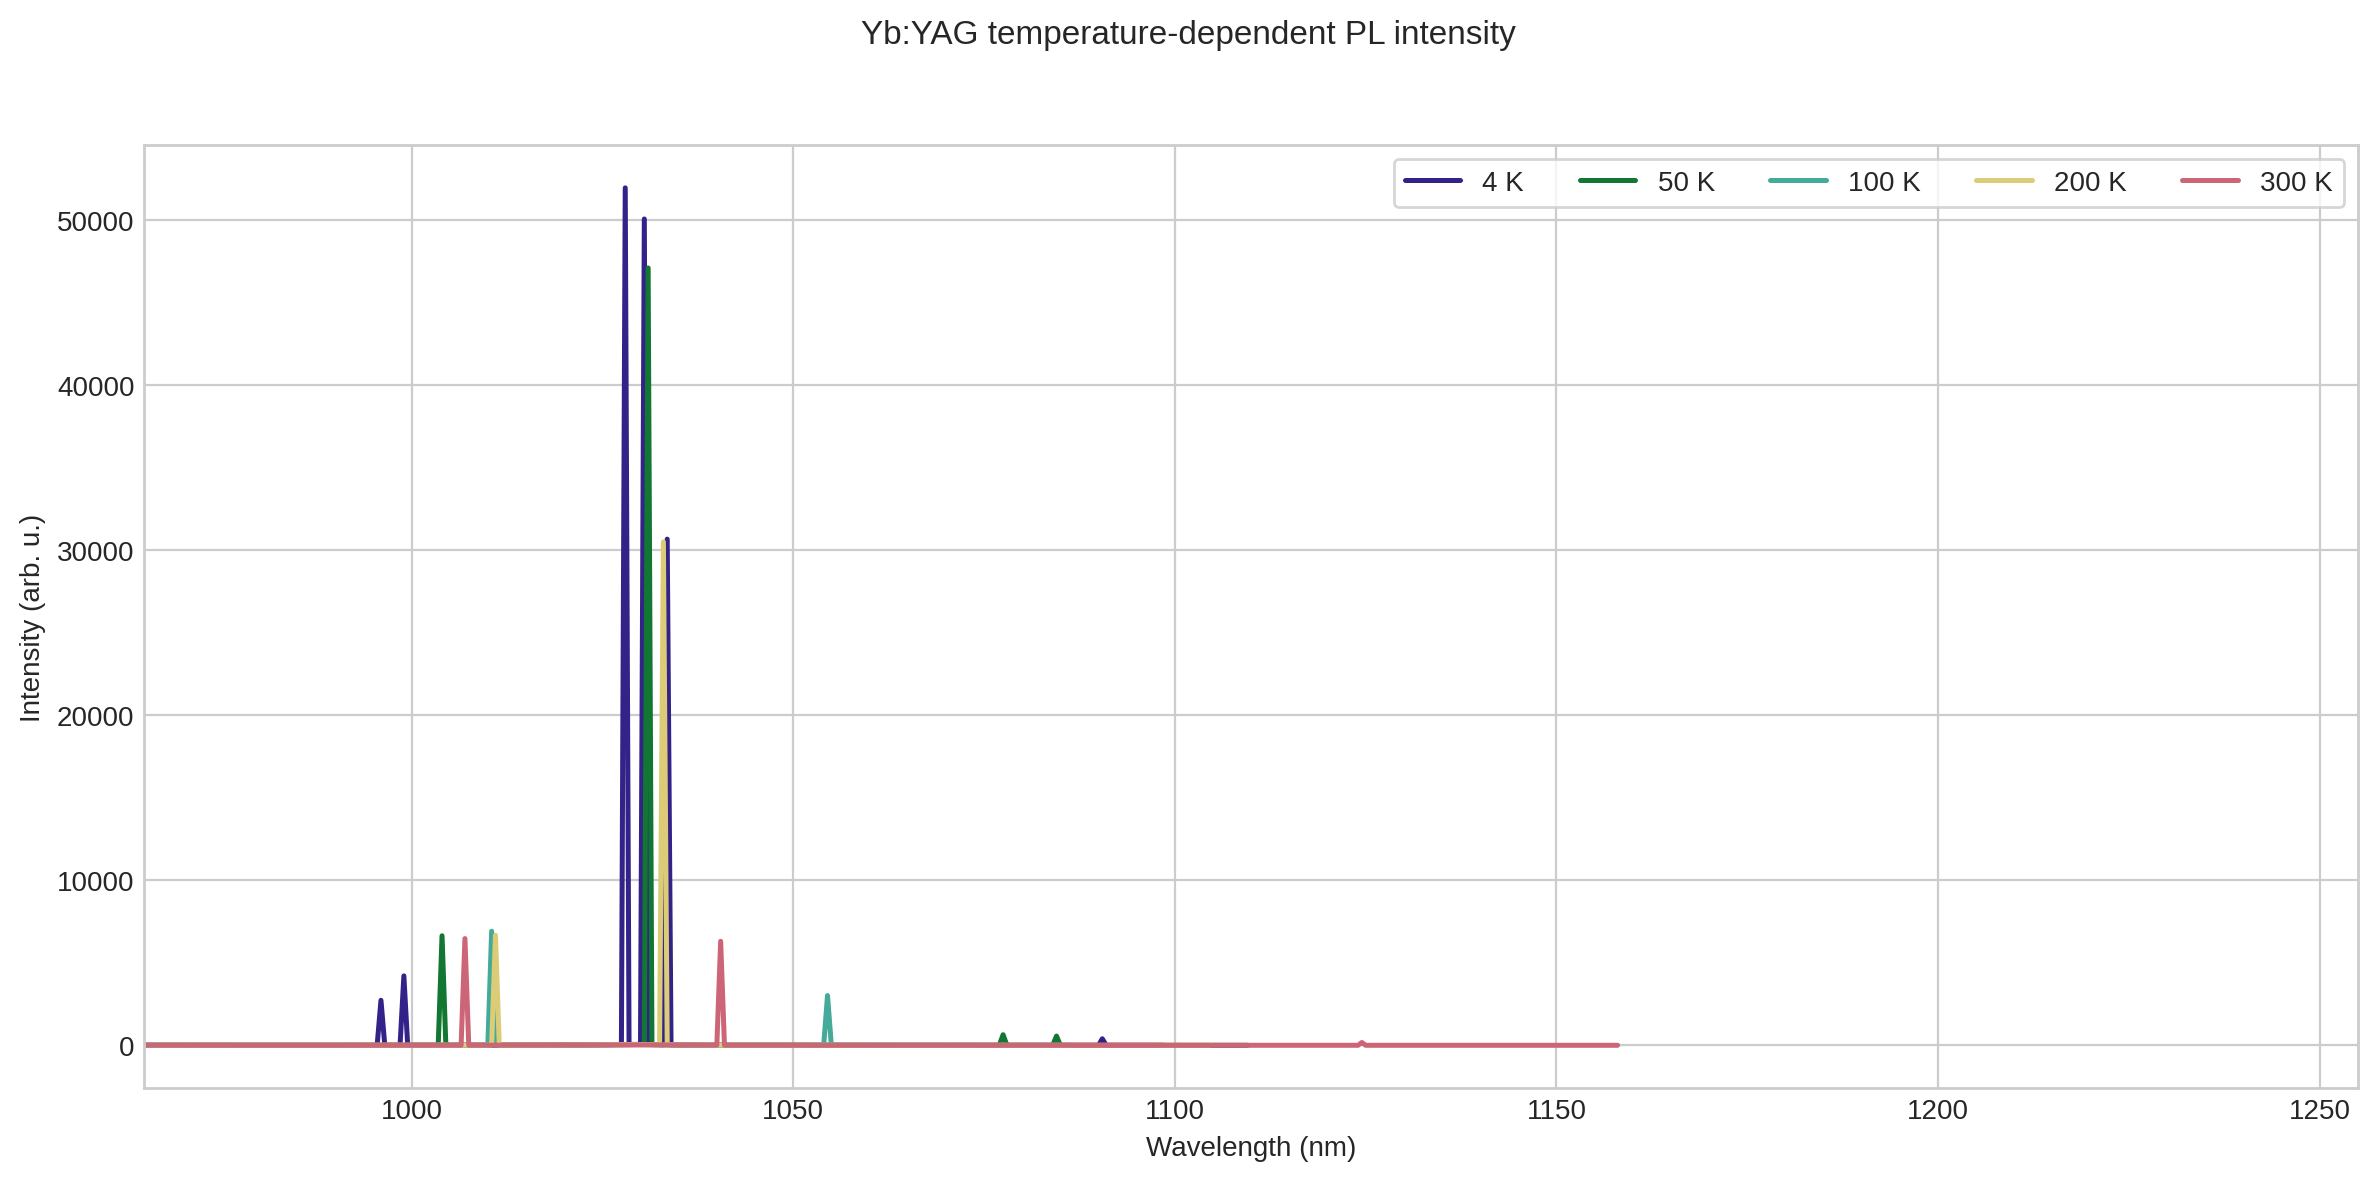
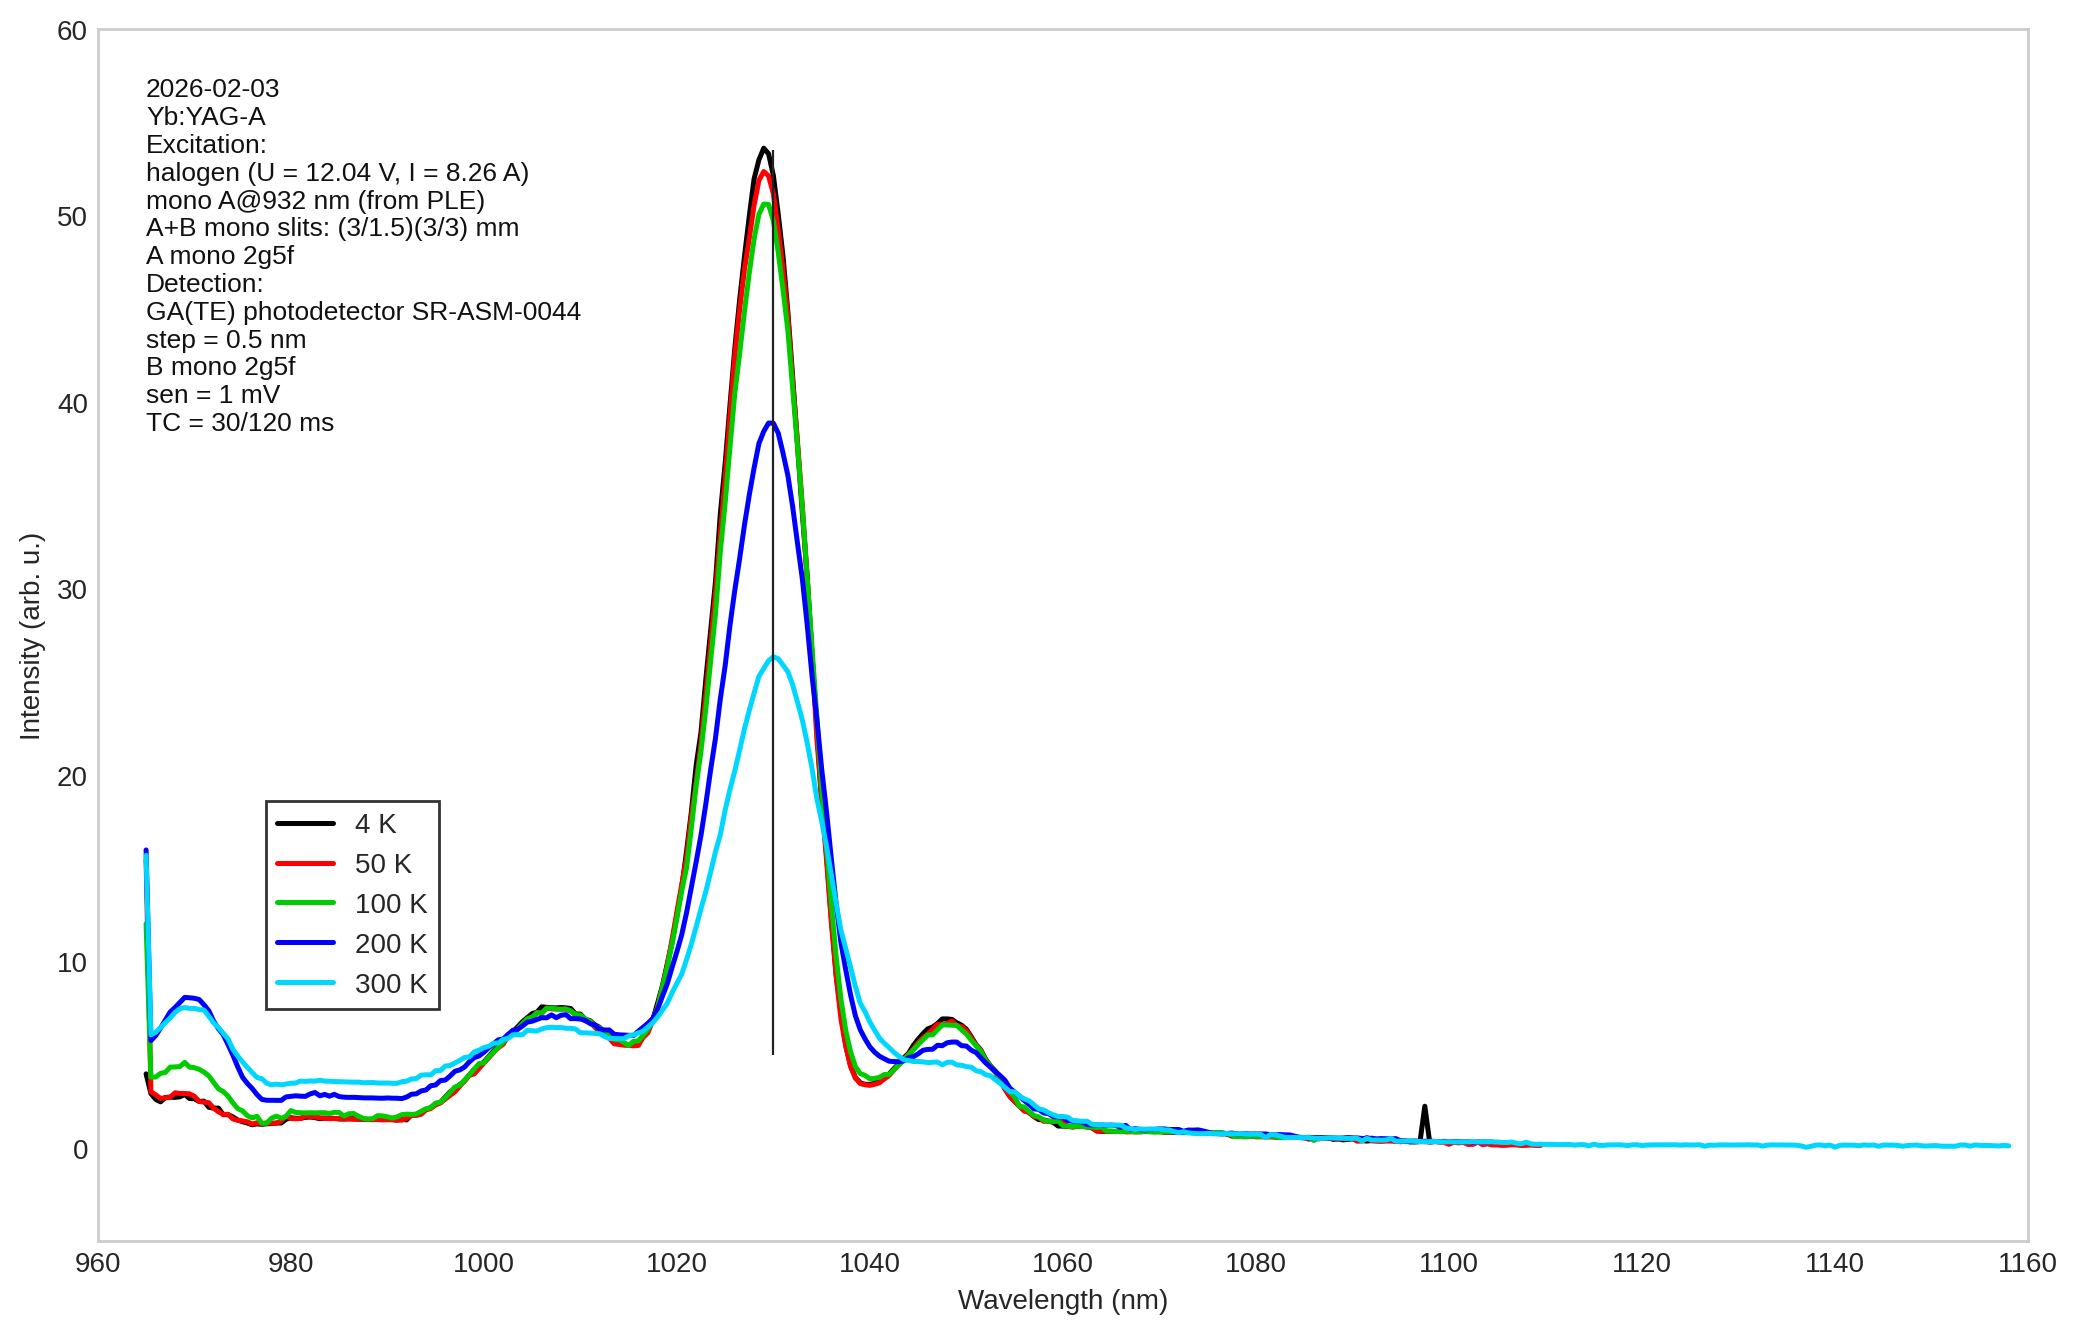
Match temperature PL plot style

diff --git a/scripts/plot_pl_spectra.py b/scripts/plot_pl_spectra.py
@@ -43,11 +43,11 @@ COLORS = {
 }
 
 TEMP_COLORS = {
-    "4 K": "#332288",
-    "50 K": "#117733",
-    "100 K": "#44AA99",
-    "200 K": "#DDCC77",
-    "300 K": "#CC6677",
+    "4 K": "#000000",
+    "50 K": "#FF0000",
+    "100 K": "#00CC00",
+    "200 K": "#0000FF",
+    "300 K": "#00D7FF",
 }
 
 
@@ -92,6 +92,11 @@ def load_temperature_pl(path):
                 continue
             if not np.all(np.isfinite((wavelength, response, raw, intensity))):
                 continue
+
+            # A few Origin CSV cells lost their decimal separator on export.
+            while intensity > 100:
+                intensity /= 1000
+
             rows.append((wavelength, response, raw, intensity))
 
     values = np.asarray(rows)
@@ -219,7 +224,7 @@ def plot_pl_panels(pl_spectra):
 
 
 def plot_temperature_pl(temp_spectra):
-    figure, axis = plt.subplots(figsize=(12, 6))
+    figure, axis = plt.subplots(figsize=(10.5, 6.8))
 
     for label, values in temp_spectra.items():
         wavelength = values[:, 0]
@@ -234,15 +239,53 @@ def plot_temperature_pl(temp_spectra):
             label=label,
         )
 
+    annotation = "\n".join(
+        [
+            "2026-02-03",
+            "Yb:YAG-A",
+            "Excitation:",
+            "halogen (U = 12.04 V, I = 8.26 A)",
+            "mono A@932 nm (from PLE)",
+            "A+B mono slits: (3/1.5)(3/3) mm",
+            "A mono 2g5f",
+            "Detection:",
+            "GA(TE) photodetector SR-ASM-0044",
+            "step = 0.5 nm",
+            "B mono 2g5f",
+            "sen = 1 mV",
+            "TC = 30/120 ms",
+        ]
+    )
+    axis.text(
+        0.025,
+        0.96,
+        annotation,
+        transform=axis.transAxes,
+        ha="left",
+        va="top",
+        fontsize=9.5,
+        color="#111111",
+    )
+    axis.vlines(1030.0, 5.0, 53.5, color="#222222", linewidth=0.8)
     axis.set(
         xlabel="Wavelength (nm)",
         ylabel="Intensity (arb. u.)",
-        xlim=(965, 1255),
+        xlim=(960, 1160),
+        ylim=(-5, 60),
     )
-    axis.legend(ncol=5, frameon=True)
+    axis.set_xticks(np.arange(960, 1161, 20))
+    axis.set_yticks(np.arange(0, 61, 10))
+    axis.minorticks_on()
+    axis.grid(False)
+    axis.legend(
+        frameon=True,
+        fancybox=False,
+        edgecolor="#000000",
+        loc="lower left",
+        bbox_to_anchor=(0.08, 0.18),
+    )
 
-    figure.suptitle("Yb:YAG temperature-dependent PL intensity")
-    figure.tight_layout(rect=(0, 0, 1, 0.95))
+    figure.tight_layout()
     figure.savefig(TEMP_FIGURE_PATH, dpi=200, bbox_inches="tight")
     plt.close(figure)
 